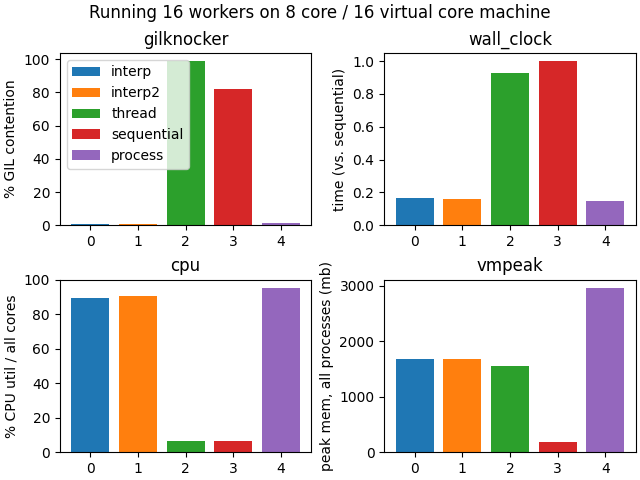
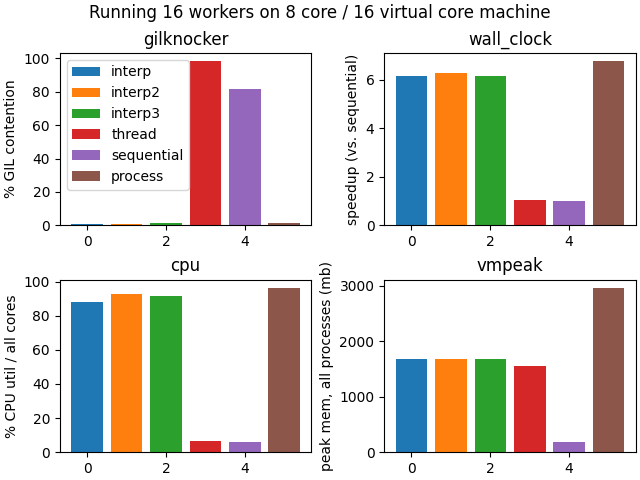
Finish README.  Add third method.

diff --git a/get_data.py b/get_data.py
@@ -6,12 +6,18 @@ pip = [py, "-m", "pip"]
 
 shutil.rmtree("venv")
 subprocess.check_call(["../cpython/python", "-m", "venv", "venv"])
-subprocess.check_call(pip + ["install", "../extrainterpreters"])
+subprocess.check_call(
+    pip
+    + [
+        "install",
+        "git+https://github.com/mdboom/extrainterpreters@main#egg-info=extrainterpreters",
+    ]
+)
 subprocess.check_call(pip + ["install", "gilknocker"])
 
 data = {}
 
-for mode in ["interp", "interp2", "thread", "sequential", "process"]:
+for mode in ["interp", "interp2", "interp3", "thread", "sequential", "process"]:
     print(f"{mode=}")
 
     output = subprocess.run(
@@ -49,7 +55,7 @@ for mode in ["interp", "interp2", "thread", "sequential", "process"]:
             case _:
                 continue
 
-        data[mode][key.decode('utf-8')] = val
+        data[mode][key.decode("utf-8")] = val
 
     print(data[mode])
 

diff --git a/pool.py b/pool.py
@@ -1,5 +1,9 @@
 try:
-    from multiprocessing.pool import SubinterpreterPool, SubinterpreterPool2
+    from multiprocessing.pool import (
+        SubinterpreterPool,
+        SubinterpreterPool2,
+        SubinterpreterPool3,
+    )
 except ImportError:
     pass
 from multiprocessing.pool import ThreadPool
@@ -25,6 +29,8 @@ if __name__ == "__main__":
             Pool = SubinterpreterPool
         case "interp2":
             Pool = SubinterpreterPool2
+        case "interp3":
+            Pool = SubinterpreterPool3
         case "thread":
             Pool = ThreadPool
         case "subprocess":
@@ -43,7 +49,7 @@ if __name__ == "__main__":
             result = list(p.map(defs.bench_nbody, [10] * 64))
 
     assert len(result) == 64
-    assert all(len(x) == 10 for x in result)
+    assert all(len(x) == 100 for x in result)
 
     if gilknocker is not None:
         knocker.stop()

diff --git a/plot.py b/plot.py
@@ -32,8 +32,8 @@ plot(axs[0, 0], "gilknocker", "% GIL contention", lambda x: x * 100)
 plot(
     axs[0, 1],
     "wall_clock",
-    "time (vs. sequential)",
-    lambda x: x / data["sequential"]["wall_clock"],
+    "speedup (vs. sequential)",
+    lambda x: data["sequential"]["wall_clock"] / x,
 )
 plot(axs[1, 0], "cpu", "% CPU util / all cores", lambda x: (x / 1600) * 100)
 plot(axs[1, 1], "vmpeak", "peak mem, all processes (mb)", lambda x: x / 1024)

diff --git a/defs.py b/defs.py
@@ -113,4 +113,4 @@ def bench_nbody(loops, reference=DEFAULT_REFERENCE, iterations=DEFAULT_ITERATION
         advance(0.01, iterations)
         result.append(report_energy())
 
-    return result
+    return result * 10

diff --git a/README.md b/README.md
@@ -1,0 +1,118 @@
+# Pool party 🏊
+
+Experiments with building a `multiprocessing.pool.SubinterpreterPool` out of the
+per-interpreter GIL support in Python 3.12.
+
+## Results
+
+![Results](results.png)
+
+Results of running the nbody benchmark using all 16 virtual cores on an 8 core
+system. **The choice of benchmark here probably has a considerable impact on the
+results. Don't take any of this as definitive. More benchmarks with different
+characteristics will need to be tested.**
+
+## Methods
+
+At the core of multiprocessing is a "work handler loop", which receives tasks (a
+function and some arguments) from an input queue, and then puts the result in an
+output queue.
+
+There are currently two and a half different methods for running this work
+handler loop with subinterpreters, all of which have very similar performance in terms
+of runtime and memory.
+
+In both cases, subinterpreters are managed using
+`Lib/test/support/interpreters.py` which is an experimental implementation of
+[PEP 554](https://peps.python.org/pep-0554/).
+
+### Method one
+
+As with regular `multiprocessing` using subprocesses, each worker in the pool has its own thread in the main interpreter.  
+Inside each of those threads, a subinterpreter runs multiprocessing's existing "work handler loop", unmodified.  
+
+Since a `queue.SimpleQueue` can not be used to send objects between
+subinterpreters, work is sent to this loop inside the subinterpreter using a
+`LockableBoard` from the [extrainterpreters
+project](https://github.com/jsbueno/extrainterpreters). Objects can be added and
+removed from a `LockableBoard` from multiple subinterpreters, and it enforces
+that only one subinterpreter can access an object at a time. The object must be
+a sharable type, so the objects are pickled/unpickled in order to send back and
+forth, but the pickle data itself does not need to be copied.
+
+Since the worker loop needs to block waiting for more tasks and the result
+handler needs to block waiting for more results, an `os.pipe` is used to
+communicate between interpreters when new data is ready to be read from the
+`LockableBoard`.
+
+Experimentally, this was much faster than polling in a Python loop, but I don't
+know whether this is the most efficient synchronization primitive for this
+purpose (it was definitely handy).
+
+(extrainterpreters also contains a Queue class that is more like what is needed,
+but it doesn't appear to support blocking reads yet.)
+
+### Method two
+
+As above, each worker in the pool starts a new thread in the main interpreter.
+Each of these threads has exactly one subinterpreter contained in it, but rather
+than that subinterpreter running the work handler loop, it remains running in
+the thread on the main interpreter, and each task is sent individually to its
+subinterpreter.
+
+Since the work handler is just a regular thread, it can use `queue.SimpleQueue`
+to receive tasks and return results.
+
+When a task is received from the queue in the worker thread, the task data is
+pickled and sent to the subinterpreter using `interpreter.run()`.
+
+A modification to `interpreter.run()` was made (going beyond PEP554) to run code
+in `eval` mode, so that a return value can be obtained and returned. For safety,
+this enforces that the return value is of a subinterpreter-shareable object. To
+support all objects, the code that runs a task inside a subinterpreter returns a
+pickled copy of the return value.
+
+Specifically, the following code is run when initializing each subinterpreter:
+
+```python
+import pickle
+
+def _f(p):
+    func, args, kwargs = pickle.loads(p)
+    return pickle.dumps(func(*args, **kwargs))
+```
+
+And the following code runs each task, where `pickle` is a `(func, args, kwargs)` triple:
+
+```python
+_f({pickle!r})
+```
+
+### Method three
+
+This method is identical to method two, except the return value from the
+subinterpreter is sent over a pipe back to the worker thread in the main
+interpreter. This does not require the extension to PEP554 to run code in eval
+mode.
+
+## Running this
+
+This requires:
+
+  - A [branch of CPython that adds a SubinterpreterPool](https://github.com/mdboom/cpython/tree/subinterpreter-pool-memoryboard)
+  - A [branch of extrainterpreters that bypasses a safety check](https://github.com/jsbueno/extrainterpreters/compare/main...mdboom:extrainterpreters:main)
+  - GNU time installed and on the path
+
+To reproduce these results:
+
+- Checkout the `subinterpreter-pool-memoryboard` branch of CPython from my fork into a directory sitting alongside this one, and build it.
+- Use `run.sh $1` to install the dependencies in a venv and run one specific mode:
+
+  - `interp`: SubinterpreterPool using a memoryboard for communication
+  - `interp2`: SubinterpreterPool using `queue.SimpleQueue` for communication
+  - `thread`: Use the existing `multiprocessing.pool.ThreadPool`
+  - `subprocess`: Use the default subprocess-based `multiprocessing.Pool`
+  - `sequential`: Don't use multiprocessing at all, just run the same work sequentially
+
+- Use `get_data.py` to collect results from all modes.
+- Use `plot.py` to plot the data from `data.json`.
